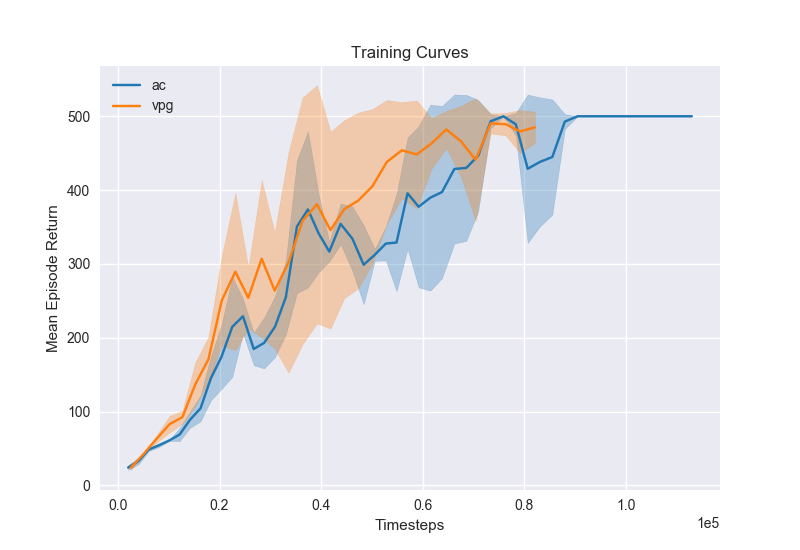
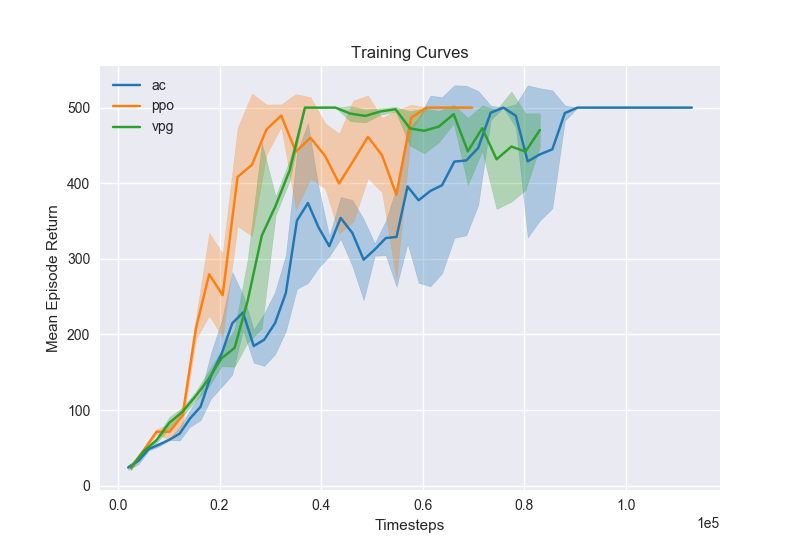
added ppo cartpole

diff --git a/src/ppo/ppo.py b/src/ppo/ppo.py
@@ -5,7 +5,7 @@ import os
 import gym
 
 from src.ppo.utils import normalise, PPOBuffer
-from src.ppo.models import DiscretePolicy, ContinuousPolicy, FC_NN
+from src.ppo.models import DiscretePolicy, ContinuousPolicy
 
 
 class ProximalPolicyOptimisation:
@@ -15,7 +15,7 @@ class ProximalPolicyOptimisation:
                  experiments_path="",
                  learning_rate=5e-3,
                  clip_ratio=0.1,
-                 nn_baseline=FC_NN,
+                 nn_baseline=None,
                  render_every=20,
                  max_path_length=1000,
                  min_timesteps_per_batch=10000,
@@ -146,9 +146,9 @@ class ProximalPolicyOptimisation:
         self.approx_entropy = tf.reduce_mean(-self.logprob_ac)
 
         # the PPO gradient loss, we use the equivalent simplified version
-        loss_values = (self.logprob_ac / self.prev_logprob_ph) * self.adv_ph
-        mask = tf.where(self.adv_ph >= 0)
-        clip_values = mask * (1 + self.clip_ratio) * self.adv_ph + (not mask) * (1 - self.clip_ratio) * self.adv_ph
+        prob_ratio = tf.exp(self.logprob_ac - self.prev_logprob_ph)
+        loss_values = prob_ratio * self.adv_ph
+        clip_values = tf.where(self.adv_ph > 0, (1 + self.clip_ratio) * self.adv_ph, (1 - self.clip_ratio) * self.adv_ph)
         loss = - tf.reduce_mean(tf.minimum(loss_values, clip_values), name="loss")
         optimizer = tf.train.AdamOptimizer(self.learning_rate)
         self.policy_update = optimizer.minimize(loss)
@@ -341,8 +341,9 @@ class ProximalPolicyOptimisation:
                                                   self.acs_ph: acs[:self.gradient_batch_size]})
         # Performing the Policy Update
         self.sess.run(self.policy_update, feed_dict={self.obs_ph: obs,
-                                                   self.acs_ph: acs,
-                                                   self.adv_ph: advs})
+                                                     self.acs_ph: acs,
+                                                     self.adv_ph: advs,
+                                                     self.prev_logprob_ph: logprobs})
         approx_kl = self.sess.run(self.approx_kl,
                                   feed_dict={self.obs_ph: obs[:self.gradient_batch_size],
                                              self.acs_ph: acs[:self.gradient_batch_size],

diff --git a/run/ppo/run.py b/run/ppo/run.py
@@ -34,28 +34,28 @@ def run_cartpole(exp_name="ppo-cartpole", seed=1, debug=True):
     env = gym.make("CartPole-v1")
     set_global_seeds(seed, debug)
     env.seed(seed)
-    run(env, exp_name, seed, discrete=True)
+    run(env, exp_name, seed)
 
 
 def run_inverted_pendulum(exp_name="ppo-inverted-pendulum", seed=1, debug=True):
     env = gym.make("RoboschoolInvertedPendulum-v1")
     set_global_seeds(seed, debug)
     env.seed(seed)
-    run(env, exp_name, seed, discrete=False)
+    run(env, exp_name, seed)
 
 
 def run_lander(exp_name="ppo-lander", seed=123, debug=True):
     env = gym.make("LunarLanderContinuous-v2")
     set_global_seeds(seed, debug)
     env.seed(seed)
-    run(env, exp_name, seed, discrete=False)
+    run(env, exp_name, seed)
 
 
 def run_half_cheetah(exp_name="ppo-half-cheetah", seed=1, debug=False):
     env = gym.make("RoboschoolHalfCheetah-v1")
     set_global_seeds(seed, debug)
     env.seed(seed)
-    run(env, exp_name, seed, discrete=False)
+    run(env, exp_name, seed)
 
 
 if __name__ == "__main__":

diff --git a/run/compare/compare.py b/run/compare/compare.py
@@ -11,7 +11,9 @@ def compare_cartpole():
     ac = os.path.join(run_dir, "ac", "experiments", "ac-cartpole")
     # VPG logs
     vpg = os.path.join(run_dir, "vpg", "experiments", "vpg-cartpole")
-    plot_training_curves({"ac": ac, "vpg": vpg}, save_to=os.path.join(here_dir, "cartpole.png"))
+    # PPO logs
+    ppo = os.path.join(run_dir, "ppo", "experiments", "ppo-cartpole")
+    plot_training_curves({"ac": ac, "vpg": vpg, "ppo": ppo}, save_to=os.path.join(here_dir, "cartpole.png"))
 
 
 def compare_inverted_pendulum():
@@ -44,7 +46,7 @@ def compare_half_cheetah():
 
 
 if __name__ == "__main__":
-#     # compare_cartpole()
+    compare_cartpole()
 #     compare_inverted_pendulum()
 #     compare_lander()
-    compare_half_cheetah()
+#     compare_half_cheetah()

diff --git a/run/ppo/train.py b/run/ppo/train.py
@@ -107,11 +107,13 @@ def _train(env_name, exp_name, seed, debug=True, n_iter=100, save_every=25, **kw
 
     env.close()
 
+# TODO: train all these, plot, plot comparisons
+
 
 def train_cartpole(n_experiments=3, seed=1, debug=True, exp_name="ppo-cartpole"):
     nn_baseline = FC_NN([64, 64], 1)
     train("CartPole-v1", exp_name, n_experiments, seed=seed, debug=debug, nn_baseline=nn_baseline,
-          min_timesteps_per_batch=2500, learning_rate=0.01, n_iter=30, render_every=1000)
+          min_timesteps_per_batch=2500, learning_rate=0.02, n_iter=25, render_every=1000)
 
 
 def train_inverted_pendulum(n_experiments=3, seed=1, debug=True, exp_name="ppo-inverted-pendulum"):
